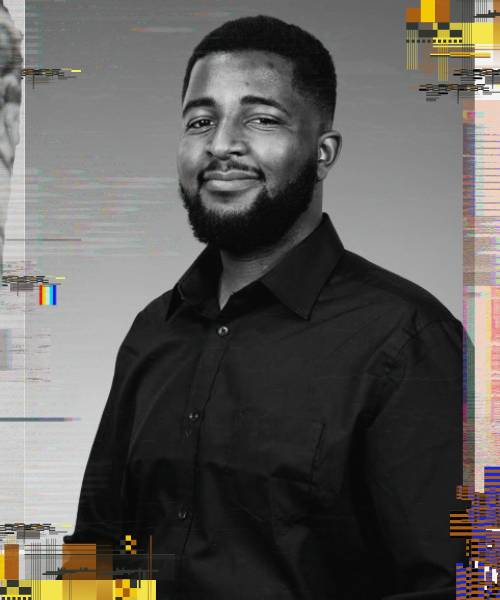
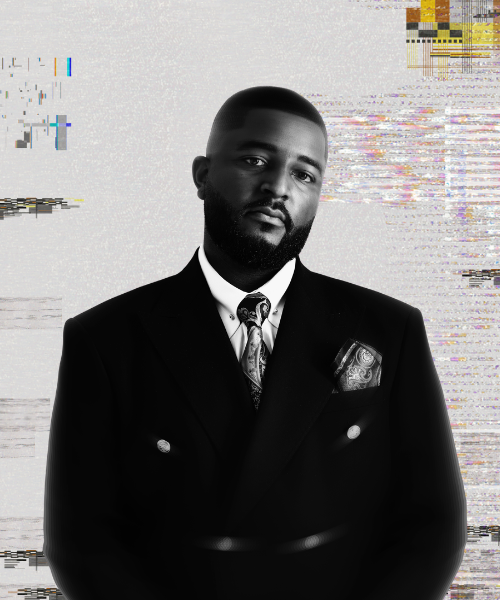
Update portfolio for AI Engineer role and completed Masters
Refresh hero, about, skills, experience, and education content to
reflect MSc Computer Science (distinction), the BERNA Framework
thesis, and current work as Lead Engineer at FoodStorii.

diff --git a/src/pages/index.js b/src/pages/index.js
@@ -1,7 +1,7 @@
 import Head from "next/head";
 import Layout from "@/components/Layout";
 import Image from "next/image";
-import profileImage from "../../public/images/profile/PROFILE_BLACK:W.jpg";
+import profileImage from "../../public/images/profile/profile_black.png";
 import profileGlitch from "../../public/images/profile/profile_glitch.png";
 import AnimatedText from "@/components/AnimatedText";
 import Link from "next/link";
@@ -20,10 +20,10 @@ export default function Home() {
   return (
     <>
       <Head>
-        <title>Tapiwa Pawandiwa Portfolio</title>
-        <meta name="description" content="Portfolio website showcasing my work as a software developer." />
-        <meta property="og:title" content="Tapiwa Pawandiwa | Software Developer" />
-        <meta property="og:description" content="Explore my latest projects, skills, and experience in software development." />
+        <title>Tapiwa Pawandiwa | AI Engineer & Full Stack Developer</title>
+        <meta name="description" content="Portfolio website showcasing my work as an AI engineer and full stack developer." />
+        <meta property="og:title" content="Tapiwa Pawandiwa | AI Engineer & Full Stack Developer" />
+        <meta property="og:description" content="Explore my latest projects, skills, and experience building AI powered products end to end." />
         <meta property="og:type" content="website" />
         <link rel="icon" href="../../public/favicon.ico"/>
       </Head>
@@ -62,14 +62,16 @@ export default function Home() {
                 type="heaer"
               />
               <AnimatedText
-                text="SOFTWARE DEVELOPER"
+                text="AI ENGINEER & FULL STACK PRODUCT BUILDER"
                 className="!text-2xl !text-left md:!text-center lg:!text-center sm:!text-center text-orange-700 "
                 type="redaction"
               />
               <p className="my-4 font-poppinsLight md:text-lg sm:text-lg bg-text xl:text-2xl">
-                As a Software Developer I am dedicated to innovation and the
-                design of user centric applications. Explore my latest projects,
-                showcasing my skills.
+                I build and ship AI powered products end to end, from agentic
+                backends and mobile apps to the UX that makes them usable. MSc
+                Computer Science graduate (distinction) currently leading
+                engineering at an early stage AI startup, with a research
+                background in explainable AI for healthcare.
               </p>
 
               <div className="flex items-center mt-2 sm:!justify-start xl:!items-center xl:!justify-center  md:!items-center md:!justify-center">
@@ -109,50 +111,34 @@ export default function Home() {
                 About Me
               </h2>
               <p className="font-poppinsLight text-xl justify-center ">
-                Hey there, I&lsquo;m Tapiwa, a tech enthusiast with a flair for
-                creativity! 🚀 Currently pursuing my Masters in Computer Science
-                and juggling my roles as both a developer and student, I&lsquo;m on
-                a mission to become a full-stack wizard 🤓. Over the past 6
-                years, I&lsquo;ve been coding in various languages, from crafting web
-                applications to building sleek mobile apps 💻📱. But wait,
-                there&lsquo;s more! I&lsquo;ve got a thing for blockchain and health tech
-                💡. When I&lsquo;m not knee-deep in lines of code, you&lsquo;ll catch me
-                immersed in the vibrant universe of art and graphic design 🎨
+                I&lsquo;m Tapiwa, an AI engineer and full stack developer based
+                in Berlin. I recently completed my MSc in Computer Science
+                (distinction) at IU Germany, where my thesis, the BERNA
+                Framework, benchmarked explainable AI methods for fetal health
+                classification with 17 clinicians.
               </p>
               <p className="my-4 font-poppinsLight text-xl justify-center">
-                I firmly believe in the transformative potential of technology
-                to impact lives, and I am deeply enthusiastic about utilizing my
-                skills to bring about positive change. My journey has involved
-                active participation in various university competitions, such as
-                the Hultz Prize Competition and the Innovation Think Tank at
-                Rhodes University. <br />
-                <br />
-                One notable experience was our participation in a blockchain
-                competition, where my friends and I were challenged to devise an
-                inventive blockchain solution. Our efforts led us to secure the
-                first-place position in the competition. Alongside this, I
-                played an integral role in the Sudo-Soc university society.
-                Within Sudo-Soc, our focus was on educating fellow students in
-                coding, orchestrating coding community events, and coordinating
-                hackathons. <br />
-                <br />
-                Furthermore, I was part of an initiative within Sudo-Soc that
-                entailed establishing a computer lab within the local community.
-                This endeavor exemplified our commitment to extending the
-                benefits of technology beyond the university setting, bridging
-                the digital divide, and fostering technological inclusivity
+                Today I&lsquo;m the lead engineer at FoodStorii, an early stage
+                AI food management startup, where I own the product end to
+                end. That means talking to users and shaping the roadmap,
+                building the React Native app, building the FastAPI and
+                LangGraph backend, and building the agentic AI systems that
+                power it. Before that, I spent a year as a software
+                engineering working student at Volkswagen Group, working
+                across Svelte, TypeScript, and Go in an Agile, TDD driven
+                team.
               </p>
               <p className="my-4 font-poppinsLight text-xl justify-center">
-                I believe technology is forever changing, as a result of this I
-                am not afraid to learn new languages, skills and technologies. I
-                am currently researching and experimenting with Blockchain and
-                Web3.
+                I&lsquo;m especially drawn to the intersection of AI, product,
+                and real world deployment. I want to build systems that are
+                not just technically sound but genuinely usable, and I bring
+                the same lens to my research interests in applied AI for
+                maternal and fetal healthcare.
               </p>
               <p className="my-4 font-poppinsLight text-xl justify-center">
-                I have worked on React Websites. React Native Mobile
-                Applications and C# Desktop Applications. For the backend I have
-                worked with NodeJS, ExpressJS, MongoDB, Firebase, AWS Amplify
-                and SQL.
+                Outside of engineering, I paint, and I keep close tabs on AI
+                research at a conceptual level. It&apos;s a personal interest
+                as much as a professional one.
               </p>
 
               <p className="text-lg mt-8 italic font-poppinsLight bg-text text-center relative">

diff --git a/src/pages/about.js b/src/pages/about.js
@@ -14,7 +14,7 @@ const about = () => {
     <>
       <Head>
         <link rel="icon" href="../../public/myfavicon.png"/>
-        <title>About Me</title>
+        <title>About Me | Tapiwa Pawandiwa</title>
       </Head>
       <TransitionEffect />
       <main className="flex w-full flex-col item-center justify-center">
@@ -30,46 +30,36 @@ const about = () => {
                 About Me
               </h2>
               <p className="font-poppinsLight text-xl justify-center">
-                Hey there, I&lsquo;m Tapiwa, a tech enthusiast with a flair for
-                creativity! 🚀 Currently, I am pursuing my Masters in Computer Science
-                and juggling my roles as both a developer and student, I&lsquo;m on
-                a mission to become a full-stack wizard 🤓. Over the past 6
-                years, I&lsquo;ve been coding in various languages, from crafting web
-                applications to building sleek mobile apps 💻📱. But wait,
-                there&lsquo;s more! I&lsquo;ve got a thing for blockchain and health tech
-                💡. When I&lsquo;m not knee-deep in lines of code, you&lsquo;ll catch me
-                immersed in the vibrant universe of art and graphic design 🎨
+                I&lsquo;m Tapiwa, an AI engineer and full stack developer based
+                in Berlin. I recently completed my MSc in Computer Science
+                (distinction) at IU Germany, where my thesis, the BERNA
+                Framework, benchmarked explainable AI methods for fetal health
+                classification with 17 clinicians.
               </p>
               <p className="my-4 font-poppinsLight text-xl justify-center">
-                I firmly believe in the transformative potential of technology
-                to impact lives, and I am deeply enthusiastic about utilizing my
-                skills to bring about positive change. My journey has involved
-                active participation in various university competitions, such as
-                the Hultz Prize Competition and the Innovation Think Tank at
-                Rhodes University. <br />
-                <br />
-                One notable experience was our participation in a blockchain
-                competition, where my friends and I were challenged to devise an
-                inventive blockchain solution. Our efforts led us to secure the
-                first-place position in the competition. Alongside this, I
-                played an integral role in the Sudo-Soc university society.
-                Within Sudo-Soc, our focus was on educating fellow students in
-                coding, orchestrating coding community events, and coordinating
-                hackathons. <br />
-                <br />
-                Furthermore, I was part of an initiative within Sudo-Soc that
-                entailed establishing a computer lab within the local community.
-                This endeavor exemplified our commitment to extending the
-                benefits of technology beyond the university setting, bridging
-                the digital divide, and fostering technological inclusivity
+                Today I&lsquo;m the lead engineer at FoodStorii, an early stage
+                AI food management startup, where I own the product end to
+                end. That means talking to users and shaping the roadmap,
+                building the React Native app, building the FastAPI and
+                LangGraph backend, and building the agentic AI systems that
+                power it. Before that, I spent a year as a software
+                engineering working student at Volkswagen Group, working
+                across Svelte, TypeScript, and Go in an Agile, TDD driven
+                team.
               </p>
               <p className="my-4 font-poppinsLight text-xl justify-center">
-                I believe technology is forever changing, as a result of this I
-                am not afraid to learn new languages, skills and technologies. I
-                am currently researching and experimenting with Blockchain and
-                Web3.
+                I&lsquo;m especially drawn to the intersection of AI, product,
+                and real world deployment. I want to build systems that are
+                not just technically sound but genuinely usable, and I bring
+                the same lens to my research interests in applied AI for
+                maternal and fetal healthcare.
               </p>
-          
+              <p className="my-4 font-poppinsLight text-xl justify-center">
+                Outside of engineering, I paint, and I keep close tabs on AI
+                research at a conceptual level. It&apos;s a personal interest
+                as much as a professional one.
+              </p>
+
               <p className="text-lg mt-8 italic font-poppinsLight bg-text text-center relative">
                 <span className="absolute top-0 left-0 transform -translate-x-2/3 -translate-y-1/4 text-5xl text-primary">
                   &ldquo;

diff --git a/src/components/Skills.js b/src/components/Skills.js
@@ -52,6 +52,26 @@ const Skills = () => {
         <Skill name="NextJS" x="0vw" y="10vw" />
         <Skill name="SQL" x="-30vw" y="5vw" />
 
+        <Skill name="FastAPI" x="-35vw" y="-20vw" />
+        <Skill name="LangGraph" x="35vw" y="-5vw" />
+        <Skill name="Claude API" x="-5vw" y="-35vw" />
+        <Skill name="Agentic AI Orchestration" x="5vw" y="30vw" />
+        <Skill name="PostgreSQL" x="-22vw" y="-5vw" />
+        <Skill name="Supabase" x="30vw" y="20vw" />
+        <Skill name="Redis" x="-35vw" y="10vw" />
+        <Skill name="Docker" x="15vw" y="5vw" />
+        <Skill name="TypeScript" x="-10vw" y="5vw" />
+        <Skill name="Expo (EAS)" x="20vw" y="-18vw" />
+        <Skill name="Svelte" x="-28vw" y="25vw" />
+        <Skill name="GitHub Actions (CI/CD)" x="0vw" y="-25vw" />
+        <Skill name="Render" x="32vw" y="-25vw" />
+        <Skill name="Sentry" x="-15vw" y="15vw" />
+        <Skill name="PostHog" x="8vw" y="-10vw" />
+        <Skill name="TestFlight" x="-30vw" y="-30vw" />
+        <Skill name="UI/UX Design" x="18vw" y="22vw" />
+        <Skill name="User Research" x="-8vw" y="18vw" />
+        <Skill name="Explainable AI (XAI)" x="25vw" y="-30vw" />
+
       </motion.div>
     </>
   );

diff --git a/src/components/Experience.js b/src/components/Experience.js
@@ -64,6 +64,23 @@ const Experience = () => {
 
         <ul className="w-full flex flex-col items-start justify-between ml-4 xs:ml-2 ">
         <Details
+            position="Lead Engineer & Co Founder"
+            company="FoodStorii"
+            time="2025 - Present"
+            address="Berlin, Germany (Remote)"
+            companyLink="/"
+            work="
+            Leading end to end product development at an early stage AI food management startup, from technical architecture to shipping features users touch every day. Own the full development lifecycle, translating business requirements into shipped features and speaking directly with users to validate needs and prioritize the roadmap.
+            • Built the React Native (Expo) mobile app, including onboarding, shopping list, inventory, and AI assisted cooking flows.
+            • Designed and built the full stack backend: FastAPI and LangGraph services power an AI assistant, with Supabase and PostgreSQL for data and Redis for caching.
+            • Designed and implemented agentic AI workflows with guardrails, including tool and skill orchestration and a barcode/vision product ID pipeline via a proxied Anthropic API integration.
+            • Led UI/UX design for core screens (onboarding, item editing, shopping list), balancing usability with fast iteration.
+            • Owned DevOps: CI/CD pipelines, GitHub based workflows, Render deployment, PostHog analytics, and Sentry error monitoring.
+            • Handled database design, security hardening, and debugging across the stack, including a security review covering RLS policies, rate limiting, and PII exposure.
+            • Took the app from MVP to a live beta, testing and distributing via TestFlight and EAS to internal test users.
+            "
+          />
+        <Details
             position="Software Engineer Working Student"
             company="Volkswagen SID"
             time="2023 - Present"

diff --git a/src/components/Education.js b/src/components/Education.js
@@ -58,12 +58,12 @@ const Education = () => {
 
         <ul className="w-full flex flex-col items-start justify-between ml-4 xs:ml-2 ">
             <Details
-            type="Masters in Computer Science"
-            place="IU"
-            time="2021-Present"
+            type="MSc Computer Science (Distinction)"
+            place="IU Germany"
+            time="2021 - 2026"
             link= 'https://www.iu.de'
             address="Berlin, Germany"
-            info="I am currently completing my Masters in Computer Science at IU. I have taken a keen interest in Blockchain and Data Science. I also have some projects which you can find in the projects section "
+            info="Graduated with distinction. Thesis: the BERNA Framework, an explainable AI approach for fetal health classification from CTG data, validated with 17 clinicians. This work now underpins ongoing independent research into AI for maternal fetal healthcare."
           />
 
            <Details